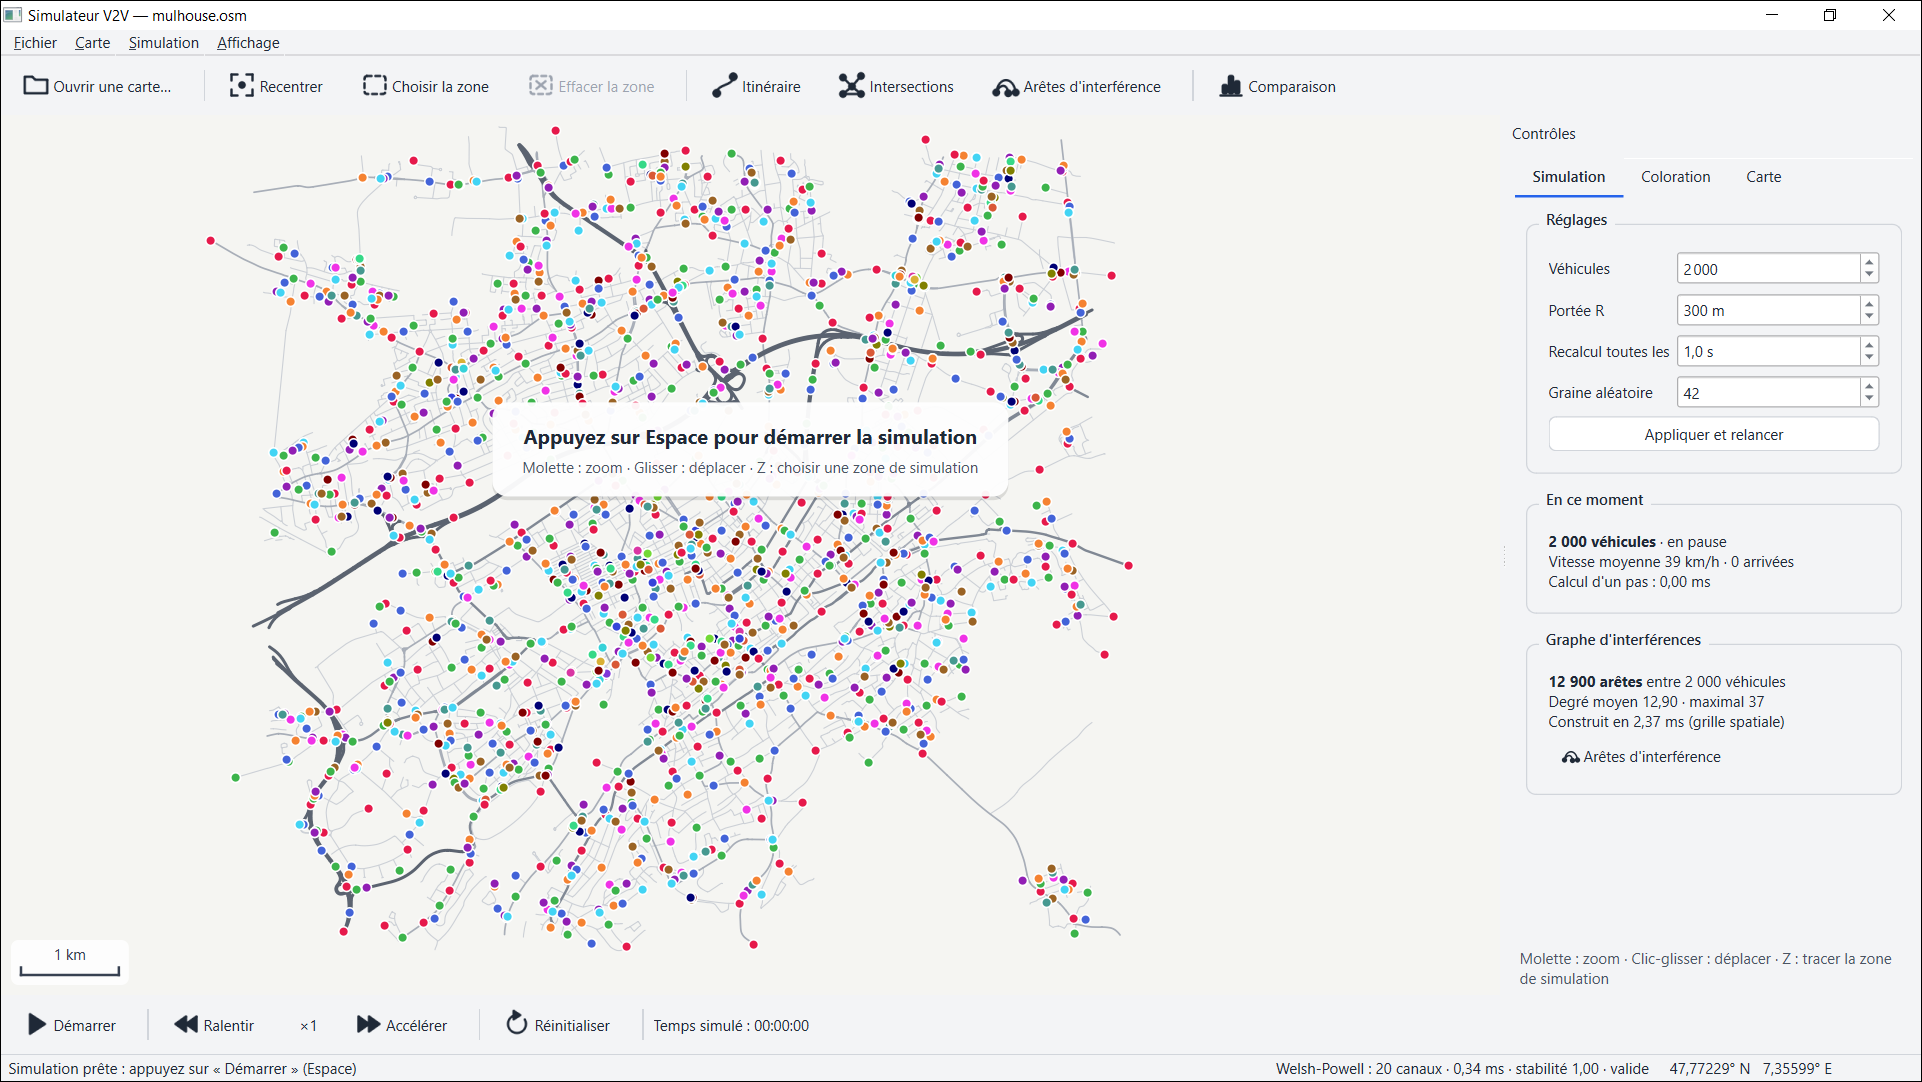
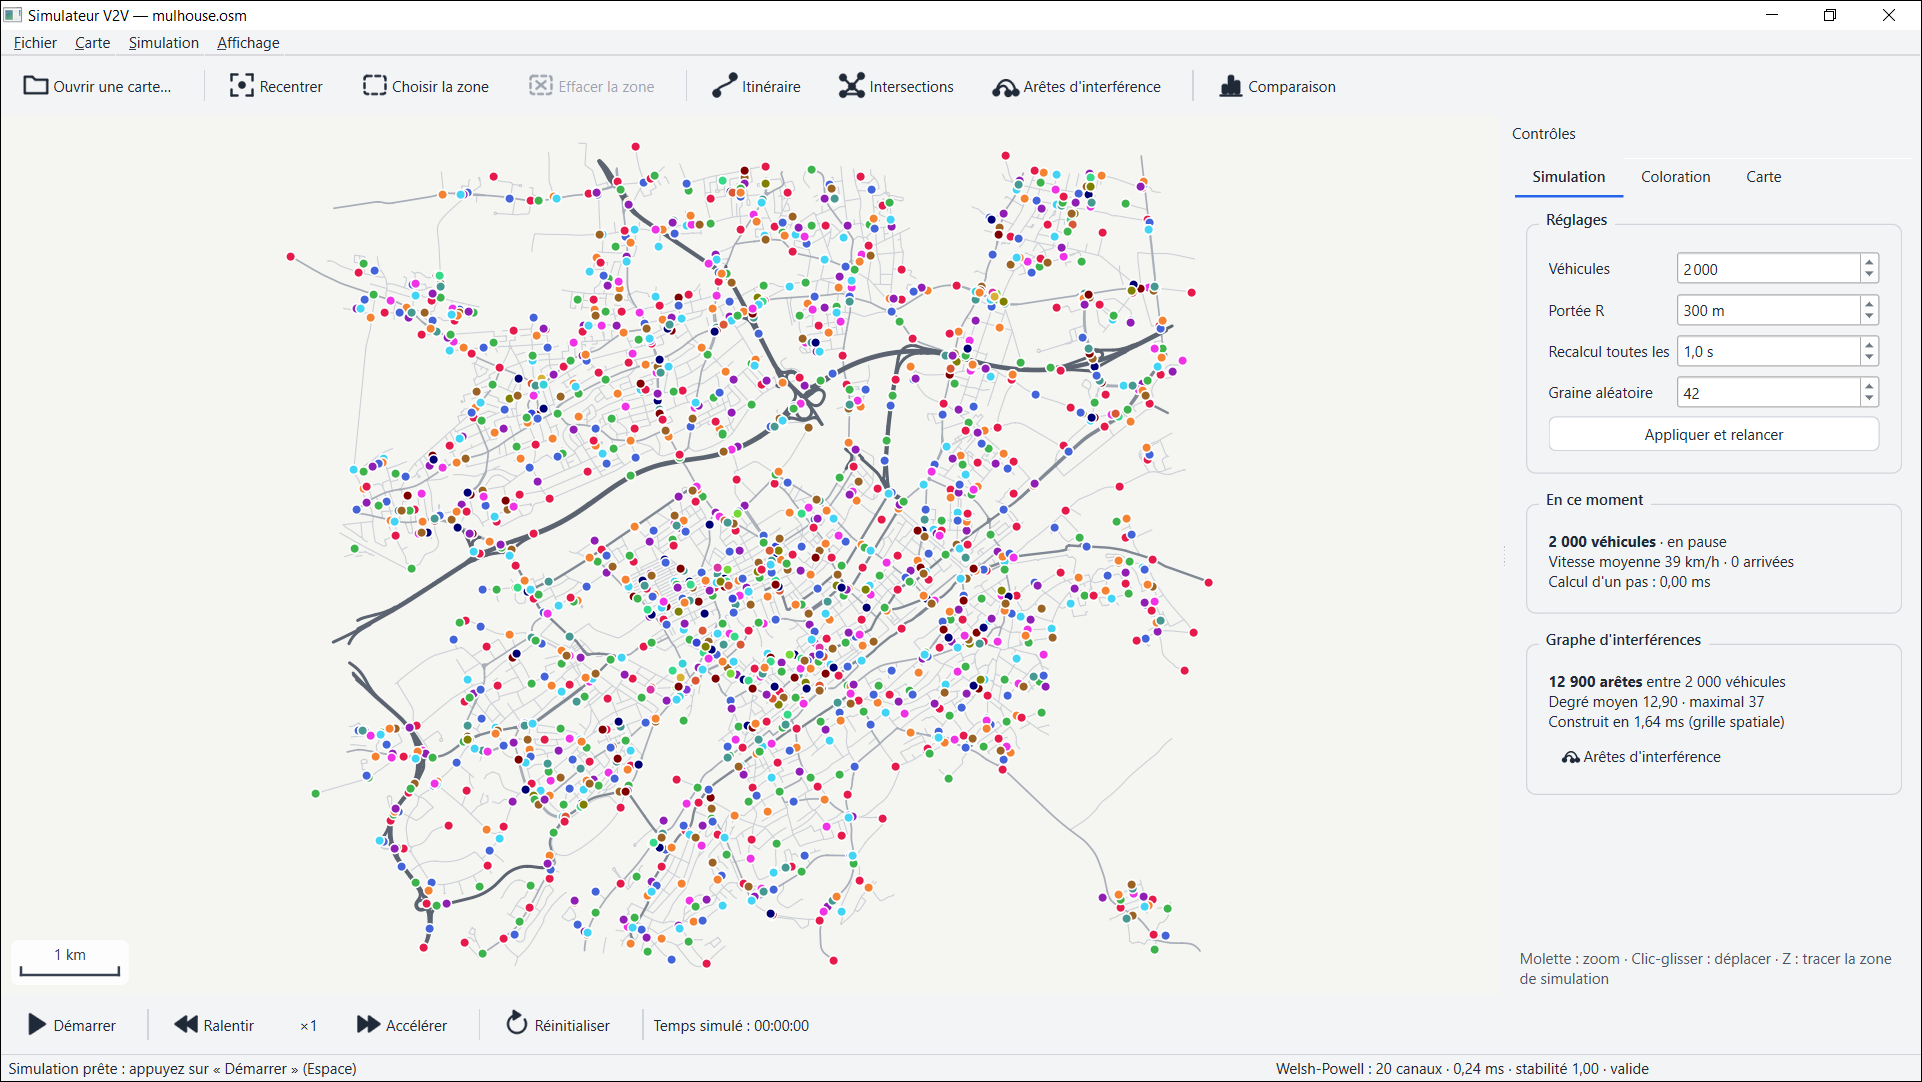
Interface : retrait du message d'accueil au centre de la carte
La barre d'état indique déjà d'appuyer sur Démarrer (Espace) ; le cartouche
cachait le centre de la carte.

diff --git a/src/map/MapView.cpp b/src/map/MapView.cpp
@@ -710,58 +710,5 @@ void MapView::drawForeground(QPainter *painter, const QRectF &)
     painter->drawLine(bas + QPointF(largeur, 0.0), bas + QPointF(largeur, -6.0));           // graduation droite
     painter->drawText(QRectF(bas.x(), bas.y() - 26.0, largeur, 18.0), Qt::AlignCenter, texte);
 
-    if (!m_inviteTitre.isEmpty())
-        dessinerInvite(*painter, viewport()->rect(), m_inviteTitre, m_inviteDetail, font());
     painter->restore();
-}
-
-void MapView::setInvite(const QString &titre, const QString &detail)
-{
-    if (titre == m_inviteTitre && detail == m_inviteDetail)
-        return;
-    m_inviteTitre = titre;
-    m_inviteDetail = detail;
-    viewport()->update();
-}
-
-void MapView::dessinerInvite(QPainter &p, const QRectF &zone, const QString &titre, const QString &detail,
-                             const QFont &police)
-{
-    // Titre en grand et en gras, détail en dessous, dans un cartouche blanc arrondi avec une
-    // légère ombre, un peu au-dessus du centre (le centre de la carte reste visible).
-    // Fenêtre étroite : le cartouche ne dépasse jamais la vue, les textes passent à la ligne.
-    QFont grande = police;
-    if (police.pointSizeF() > 0)
-        grande.setPointSizeF(police.pointSizeF() * 1.35);
-    else
-        grande.setPixelSize(qRound(police.pixelSize() * 1.35));
-    grande.setBold(true);
-    const QFontMetricsF mesureTitre(grande), mesureDetail(police);
-    constexpr double marge = 16.0, interieur = 24.0, haut = 16.0, entre = 6.0;
-    const double largeurTexte = std::max(
-        40.0, std::min(std::max(mesureTitre.horizontalAdvance(titre), mesureDetail.horizontalAdvance(detail)),
-                       zone.width() - 2.0 * (marge + interieur)));
-    const int drapeaux = Qt::AlignHCenter | Qt::AlignTop | Qt::TextWordWrap;
-    const double hauteurTitre = mesureTitre.boundingRect(QRectF(0, 0, largeurTexte, 1e6), drapeaux, titre).height();
-    const double hauteurDetail = mesureDetail.boundingRect(QRectF(0, 0, largeurTexte, 1e6), drapeaux, detail).height();
-    const double largeur = largeurTexte + 2.0 * interieur;
-    const double hauteur = haut + hauteurTitre + entre + hauteurDetail + haut;
-    const QRectF cadre(zone.center().x() - largeur / 2.0, zone.top() + zone.height() * 0.38 - hauteur / 2.0, largeur,
-                       hauteur);
-
-    p.save();
-    p.setRenderHint(QPainter::Antialiasing);
-    p.setPen(Qt::NoPen);
-    p.setBrush(QColor(0, 0, 0, 28));
-    p.drawRoundedRect(cadre.translated(0.0, 3.0), 12.0, 12.0);  // ombre
-    p.setBrush(QColor(255, 255, 255, 242));
-    p.drawRoundedRect(cadre, 12.0, 12.0);
-    p.setFont(grande);
-    p.setPen(QColor(0x1F, 0x29, 0x37));
-    p.drawText(QRectF(cadre.left() + interieur, cadre.top() + haut, largeurTexte, hauteurTitre), drapeaux, titre);
-    p.setFont(police);
-    p.setPen(QColor(0x4B, 0x55, 0x63));
-    p.drawText(QRectF(cadre.left() + interieur, cadre.top() + haut + hauteurTitre + entre, largeurTexte, hauteurDetail),
-               drapeaux, detail);
-    p.restore();
 }

diff --git a/src/ui/MainWindow.cpp b/src/ui/MainWindow.cpp
@@ -156,9 +156,6 @@ MainWindow::MainWindow(QWidget *parent)
         statusBar()->showMessage(enMarche ? "Simulation en marche" : "Simulation en pause");
         if (!enMarche)
             m_imagesParSeconde->setText("en pause");
-        if (enMarche)
-            m_attendDemarrage = false;  // le message d'accueil a rempli son rôle
-        majInvite();
     });
 
     m_actionRalentir = new QAction("Ralentir", this);
@@ -180,8 +177,6 @@ MainWindow::MainWindow(QWidget *parent)
         const int generation = ++m_generation;
         QMetaObject::invokeMethod(m_moteur, [moteur = m_moteur, generation] { moteur->reinitialiser(generation); },
                                   Qt::QueuedConnection);
-        m_attendDemarrage = true;
-        majInvite();
     });
 
     // Fenêtre de comparaison des algorithmes (étape 5) : barre d'outils, menu et panneau.
@@ -287,15 +282,6 @@ MainWindow::MainWindow(QWidget *parent)
     });
 
     m_aide->setText("Molette : zoom · Clic-glisser : déplacer · Z : tracer la zone de simulation");
-}
-
-void MainWindow::majInvite()
-{
-    // Message d'accueil au centre de la vue, tant qu'une simulation prête n'a pas encore été
-    // lancée : sans lui, on arrive sur des véhicules immobiles sans savoir quoi faire.
-    const bool afficher = m_attendDemarrage && m_actionLecture->isEnabled() && !m_actionLecture->isChecked();
-    const QString titre = afficher ? QString("Appuyez sur Espace pour démarrer la simulation") : QString();
-    m_vue->setInvite(titre, "Molette : zoom · Glisser : déplacer · Z : choisir une zone de simulation");
 }
 
 void MainWindow::majIcones()
@@ -754,8 +740,6 @@ void MainWindow::lancerSimulation()
         Qt::QueuedConnection);
     if (!grapheVide)
         statusBar()->showMessage("Simulation prête : appuyez sur « Démarrer » (Espace)");
-    m_attendDemarrage = true;
-    majInvite();
 }
 
 void MainWindow::recevoirInstantane(const Instantane &instantane)

diff --git a/src/map/MapView.h b/src/map/MapView.h
@@ -77,13 +77,6 @@ public:
     // Couleur d'un canal radio : palette de couleurs bien distinctes, partagée avec la légende.
     static QColor couleurCanal(int canal);
 
-    // Message d'accueil au centre de la carte (« Appuyez sur Espace... ») ; titre vide = aucun.
-    void setInvite(const QString &titre, const QString &detail);
-    const QString &invite() const { return m_inviteTitre; }
-    // Dessine ce message dans un cartouche centré dans `zone` (en pixels).
-    static void dessinerInvite(QPainter &p, const QRectF &zone, const QString &titre, const QString &detail,
-                               const QFont &police);
-
 signals:
     // Simple clic sur la carte en mode itinéraire (position en mètres).
     void clicCarte(const QPointF &pos);
@@ -135,6 +128,4 @@ private:
     // Véhicules et arêtes : un seul objet graphique (voir CoucheVehicules dans MapView.cpp).
     class CoucheVehicules *m_vehicules = nullptr;
     bool m_aretesVisibles = false;
-
-    QString m_inviteTitre, m_inviteDetail;  // message d'accueil (voir setInvite)
 };

diff --git a/src/ui/MainWindow.h b/src/ui/MainWindow.h
@@ -46,7 +46,6 @@ private:
     void clicItineraire(const QPointF &pos);  // 1er clic = départ A, 2e clic = arrivée B
     QWidget *creerPanneau();   // construit le panneau de contrôle de droite
     void creerBarreTemps();    // construit la barre du bas (contrôle du temps)
-    void majInvite();                // message d'accueil au centre de la carte, avant le premier démarrage
     void majIcones();                // (re)dessine les icônes dans la couleur du thème
     void changerTheme(bool sombre);  // thème clair ou sombre de l'interface
 
@@ -68,7 +67,6 @@ private:
     FenetreComparaison *m_comparaison = nullptr;
     int m_generation = 0;      // numéro de la simulation en cours : les messages d'une ancienne sont ignorés
     int m_indiceFacteur = 2;   // indice dans la liste des facteurs de temps (2 = ×1)
-    bool m_attendDemarrage = false;  // simulation prête mais jamais démarrée : message d'accueil
     QElapsedTimer m_chronoImages;  // pour mesurer les images par seconde affichées
     int m_images = 0;
 

diff --git a/docs/manuel.md b/docs/manuel.md
@@ -114,8 +114,7 @@ openstreetmap.org (*Exporter*) : le lecteur ignore tout ce qui n'est pas une rou
 | Bas | barre de contrôle du temps : démarrer/pause, ralentir, vitesse (×1...), accélérer, réinitialiser, temps simulé, images par seconde |
 | Barre d'état | messages, indicateurs de la coloration affichée (canaux, temps, stabilité, validité), coordonnées GPS sous la souris |
 
-Tant que la simulation n'a pas été démarrée (au lancement, après *Appliquer et relancer* ou *Réinitialiser*), un
-message au centre de la carte rappelle d'appuyer sur Espace. Dans l'onglet *Coloration*, le tableau donne pour
+Dans l'onglet *Coloration*, le tableau donne pour
 chaque algorithme le nombre de canaux, le temps de calcul, la stabilité et la validité (✓ / ✗) ; le plus petit
 nombre de canaux est en gras, et cliquer une ligne affiche les couleurs de cet algorithme sur la carte.
 *Affichage > Thème sombre* (**Ctrl+T**) passe l'interface en couleurs sombres ; la carte garde ses couleurs,
